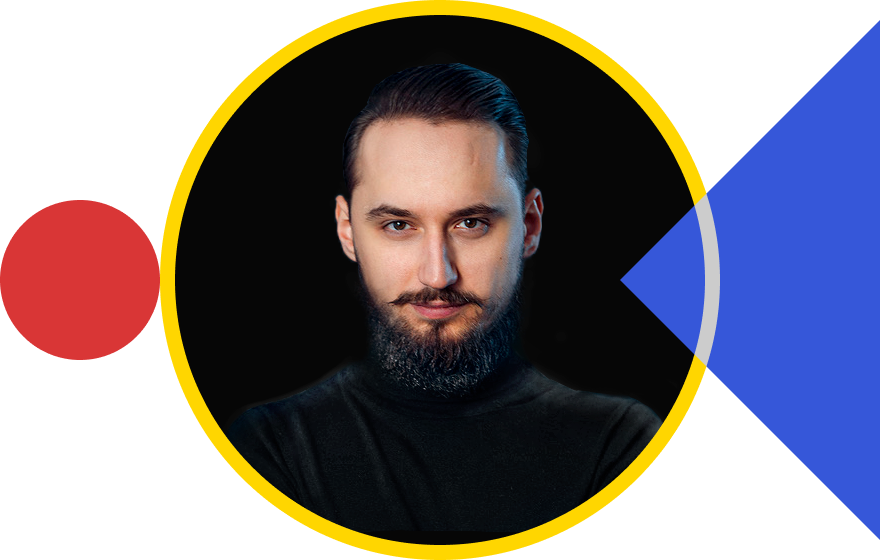
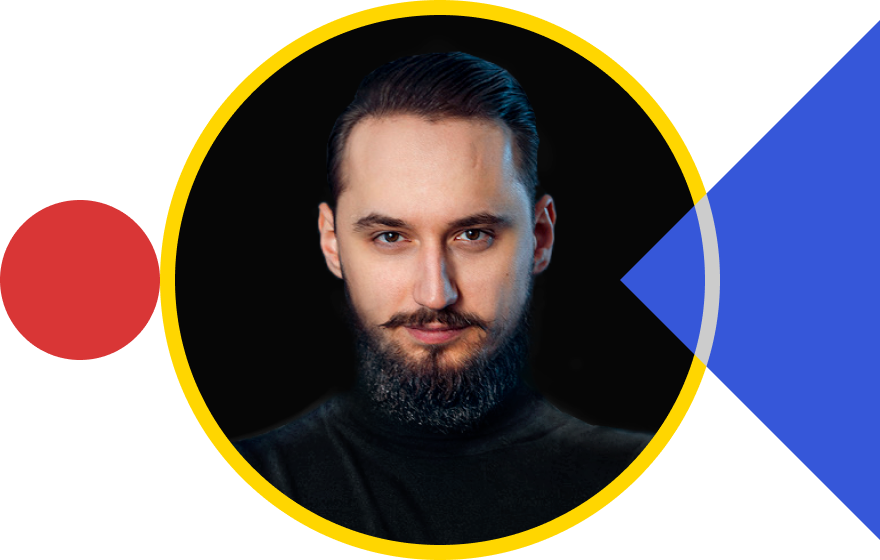
Update

diff --git a/index.html b/index.html
@@ -17,7 +17,7 @@
       crossorigin="anonymous"
     />
     <link href="style.css" rel="stylesheet" type="text/css" />
-    <link rel="shortcut icon" href="img/FaviconC.ico" />
+    <link rel="shortcut icon" href="img/Favicon.ico" />
     <meta
       property="og:image"
       content="https://raw.githubusercontent.com/PatrykSzymanski/patrykszymanski.github.io/master/img/Portfolio_preview.png"
@@ -91,7 +91,7 @@
           >
             <figure>
               <img
-                src="img/Profile_photo.png" height="239" width="375"
+                src="img/frame 1.png" height="239" width="375"
                 alt="Patryk Profile Photo"
                 class="profile_picture"
               />
